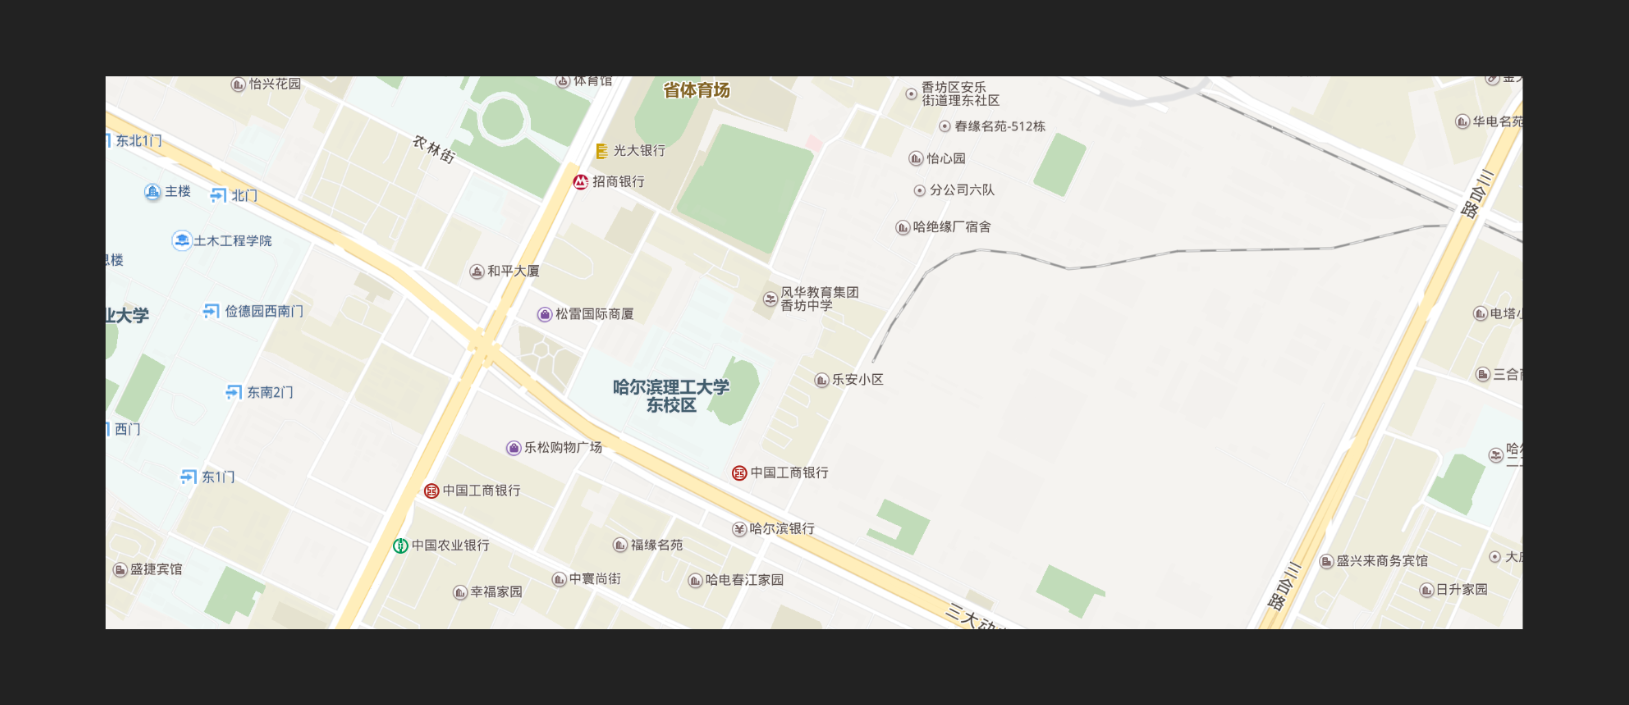
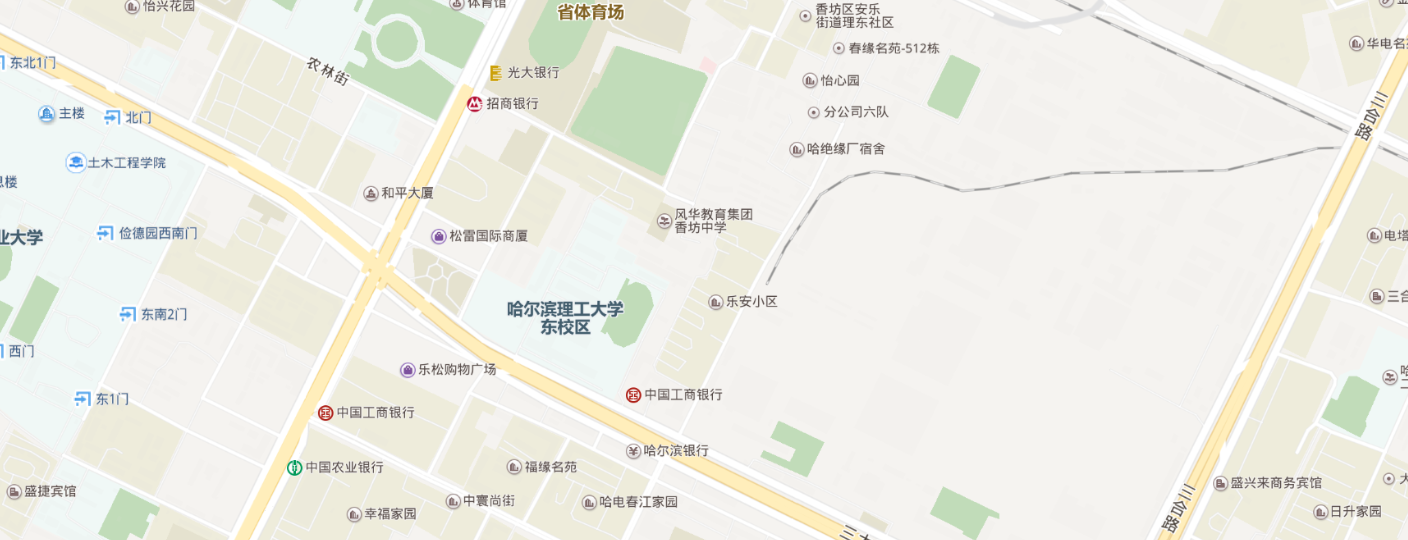
更新部分界面

diff --git a/src/pages/contact/index.css b/src/pages/contact/index.css
@@ -1,0 +1,113 @@
+.holder{
+  height: 811px;
+  background-color: transparent;
+  text-align: center;
+  font: 50px "Microsoft Yahei";
+  display: table;
+  table-layout: fixed;
+  width: 100%;
+}
+.table-cell{
+  height: 811px;
+  vertical-align: middle;
+  width: 100%;
+  display: table-cell
+}
+.container{
+  /*height: -webkit-fill-available*/
+  height: 100%;
+  background: url("../../assets/images/地图3.png") no-repeat center;
+  background-size: 70% 70%;
+  /*opacity: 0.45;*/
+}
+.con{
+  position: absolute;
+  top: 55%;
+  left: 45%;
+  width: 20px;
+  height: 20px;
+}
+.con::before{
+  content: ' ';
+  position: absolute;
+  z-index: 2;
+  left: -5px;
+  top: -5px;
+  width: 20px;
+  height: 20px;
+  background-color: #03d0ee;
+  border-radius: 50%;
+}
+.con::after{
+  content: ' ';
+  position: absolute;
+  z-index: 1;
+  background-color: #03d0ee;
+  border-radius: 50%;
+  animation:ripple;
+  /*box-shadow: 0 0 10px rgba(0,0,0,.3) inset;*/
+  -webkit-animation-name: 'ripple';
+  -webkit-animation-duration: 1s;
+  -webkit-animation-timing-function: ease;
+  -webkit-animation-delay: 0s;
+  -webkit-animation-iteration-count: infinite;
+  -webkit-animation-direction: normal;
+}
+.address{
+  top: 50%;
+  font-family: 微软雅黑, 黑体;
+  position: absolute;
+  right: 5%;
+  width: 430px;
+  margin-top: -150px;
+  height: auto;
+  background-color: #000;
+  color: #fff;
+  text-align: center;
+  font-size: 18px;
+  line-height: 180%;
+  padding: 20px 0;
+  box-shadow: 0 0 50px #000;
+}
+@-webkit-keyframes ripple
+{
+  0%  {
+    box-shadow:0 0 0 0 transparent,
+    0 0 0 0 transparent,
+    0 0 0 0 transparent,
+    0 0 0 0 transparent;
+  }
+  15%  {
+    box-shadow:0 0 0 0 #45c2c5,
+    0 0 0 0 rgba(255,255,255,0.4),
+    0 0 0 0 #45c2c5,
+    0 0 0 0 rgba(0,0,0,0.08);
+  }
+  100% {
+    box-shadow:0 0 40px 200px #45c2c5,
+    0 0 10px 210px transparent,
+    0 0 30px 220px #45c2c5,
+    0 0 5px 230px transparent;
+  }
+}
+@-moz-keyframes rip
+{
+  0%  {
+    box-shadow:0 0 0 0 transparent,
+    0 0 0 0 transparent,
+    0 0 0 0 transparent,
+    0 0 0 0 transparent;
+  }
+  15%  {
+    box-shadow:0 0 0 0 #45c2c5,
+    0 0 0 0 rgba(255,255,255,0.4),
+    0 0 0 0 #45c2c5,
+    0 0 0 0 rgba(0,0,0,0.08);
+  }
+  100% {
+    box-shadow:0 0 40px 200px #45c2c5,
+    0 0 10px 210px transparent,
+    0 0 30px 220px #45c2c5,
+    0 0 5px 230px transparent;
+  }
+}

diff --git a/src/pages/industry/index.js b/src/pages/industry/index.js
@@ -1,9 +1,59 @@
 import React from 'react';
+import {Card, Col, Row} from 'antd';
+
+
+const {Meta} = Card;
 
 class industry extends React.Component {
   render() {
     return (
-      <div>333</div>
+      <div>
+        <Row gutter={16}>
+          <Col span={8}>
+            <Card title="Card title" bordered={false}  cover={<img alt="example" src="https://os.alipayobjects.com/rmsportal/QBnOOoLaAfKPirc.png" />}
+            >
+              <Meta
+              title="Europe Street beat"
+              description="www.instagram.com"
+            /></Card>
+          </Col>
+          <Col span={8}>
+            <Card title="Card title" bordered={false}  cover={<img alt="example" src="https://os.alipayobjects.com/rmsportal/QBnOOoLaAfKPirc.png" />}
+            > <Meta
+              title="Europe Street beat"
+              description="www.instagram.com"
+            /></Card>
+          </Col>
+          <Col span={8}>
+            <Card title="Card title" bordered={false}  cover={<img alt="example" src="https://os.alipayobjects.com/rmsportal/QBnOOoLaAfKPirc.png" />}
+            > <Meta
+              title="Europe Street beat"
+              description="www.instagram.com"
+            /></Card>
+          </Col>
+          <Col span={8}>
+            <Card title="Card title" bordered={false}  cover={<img alt="example" src="https://os.alipayobjects.com/rmsportal/QBnOOoLaAfKPirc.png" />}
+            > <Meta
+              title="Europe Street beat"
+              description="www.instagram.com"
+            /></Card>
+          </Col>
+          <Col span={8}>
+            <Card title="Card title" bordered={false}  cover={<img alt="example" src="https://os.alipayobjects.com/rmsportal/QBnOOoLaAfKPirc.png" />}
+            > <Meta
+              title="Europe Street beat"
+              description="www.instagram.com"
+            /></Card>
+          </Col>
+          <Col span={8}>
+            <Card title="Card title" bordered={false}  cover={<img alt="example" src="https://os.alipayobjects.com/rmsportal/QBnOOoLaAfKPirc.png" />}
+            > <Meta
+              title="Europe Street beat"
+              description="www.instagram.com"
+            /></Card>
+          </Col>
+        </Row>
+      </div>
     );
   }
 }

diff --git a/src/pages/index.js b/src/pages/index.js
@@ -10,10 +10,31 @@ import img4 from './../assets/images/home/特色.jpg';
 export default function() {
   return (
     <Carousel autoplay>
-      <div><img src={img1} alt="" className={styles.imgsize}/></div>
-      <div><img src={img2} alt="" className={styles.imgsize}/></div>
-      <div><img src={img3} alt="" className={styles.imgsize}/></div>
-      <div><img src={img4} alt="" className={styles.imgsize}/></div>
+      <div><img src={img1} alt="" className={styles.imgsize}/>
+
+        沿岸城镇介绍
+        简要介绍沿岸的城镇，促进城镇经济发展，带动沿江地区发展。
+
+        水系介绍
+        流域内所有河流、湖泊等各种水体组成的水网系统，称作水系。其中，水流最终流入海洋的称作外流水系。
+
+        沿岸特色商业
+        松花江流域物业
+        周边特色，盛产物资
+
+        沿岸交通介绍
+        气象环境介绍
+        沿岸保护区介绍
+        提供沿江地区保护区简述现状
+      </div>
+      <div><img src={img2} alt="" className={styles.imgsize}/>
+        将每个地区的气象、流域的季节天气状况显示出来
+      </div>
+      <div><img src={img3} alt="" className={styles.imgsize}/>
+        多车多终点的较优路线规划，智能引导，节省行车成本</div>
+      <div><img src={img4} alt="" className={styles.imgsize}/>
+        当地特产、当地盛产的物资。
+      </div>
     </Carousel>
   );
 }

diff --git a/src/pages/contact/index.js b/src/pages/contact/index.js
@@ -1,9 +1,23 @@
 import React from 'react';
+import style from "./index.css";
+import BaiduMap from "../../assets/images/contact-image-qrcode.png";
 
 class contact extends React.Component {
   render() {
     return (
-      <div>6666</div>
+      <div className={style.holder}>
+        <div className={style["table-cell"]}>
+          <div className={style.container}>
+            <div className={style.con}> </div>
+            <div className={style.address}>
+              哈尔滨市香坊区三大动力路23号<br/> 哈尔滨理工大学（东区）
+              <br/> 0451-1234567
+              <br/> 400-500-6789
+              <img src={BaiduMap}/>
+            </div>
+          </div>
+        </div>
+      </div>
     );
   }
 }

diff --git a/src/pages/about/index.js b/src/pages/about/index.js
@@ -1,10 +1,16 @@
+import { Player } from 'video-react';
+import "video-react/dist/video-react.css";
 import React from 'react';
 
 class about extends React.Component {
   render() {
     return (
-      <div>111</div>
-    );
+      <div>
+        <Player>
+          <source src="https://media.w3.org/2010/05/sintel/trailer_hd.mp4" />
+        </Player>
+      </div>
+    )
   }
 }
 

diff --git a/src/layouts/index.js b/src/layouts/index.js
@@ -45,7 +45,7 @@ class BasicLayout extends React.Component {
   render() {
     return (
       <Layout className="layout">
-        <Header style={{ background: '#000' }}>
+        <Header style={{ background: '#001529' }}>
           <Menu
             theme="dark"
             onClick={this.handleClick}

diff --git a/src/pages/experience/index.js b/src/pages/experience/index.js
@@ -3,7 +3,7 @@ import React from 'react';
 class experience extends React.Component {
   render() {
     return (
-      <div>222</div>
+      <div>通过合理的地区划分，快速将特色景点显示到各个区域</div>
     );
   }
 }

diff --git a/src/pages/industry/protection.js b/src/pages/industry/protection.js
@@ -1,0 +1,11 @@
+import React from 'react';
+
+class protection extends React.Component {
+  render() {
+    return (
+      <div>333</div>
+    );
+  }
+}
+
+export default protection;

diff --git a/src/pages/industry/reality.js b/src/pages/industry/reality.js
@@ -1,0 +1,11 @@
+import React from 'react';
+
+class industry extends React.Component {
+  render() {
+    return (
+      <div>333</div>
+    );
+  }
+}
+
+export default industry;

diff --git a/src/pages/industry/farming.js b/src/pages/industry/farming.js
@@ -1,0 +1,11 @@
+import React from 'react';
+
+class farming extends React.Component {
+  render() {
+    return (
+      <div>333</div>
+    );
+  }
+}
+
+export default farming;

diff --git a/src/pages/industry/produce.js b/src/pages/industry/produce.js
@@ -1,0 +1,11 @@
+import React from 'react';
+
+class produce extends React.Component {
+  render() {
+    return (
+      <div>333</div>
+    );
+  }
+}
+
+export default produce;

diff --git a/src/pages/industry/scenic.js b/src/pages/industry/scenic.js
@@ -1,0 +1,11 @@
+import React from 'react';
+
+class scenic extends React.Component {
+  render() {
+    return (
+      <div>333</div>
+    );
+  }
+}
+
+export default scenic;
